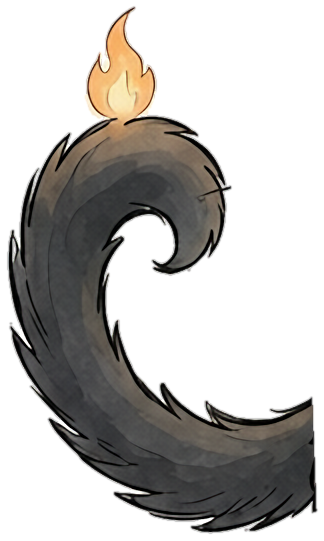
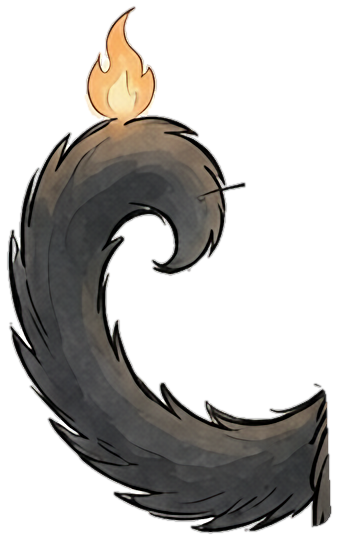
Layer seam and background fill fixes
Owner 02.11: a white line showed between the tail and the body. Both layers were
cut edge to edge along the same line, so both edges were half transparent there
and the paper showed through. anim.underlap extends a part under the layer that
covers it; reel 13 tail recut.

fill_hole: the default grain came from np.roll, which wrapped the frame edge and
pulled lines from the far side into tall holes (an embossed ghost of the cat in
the kitchen fill); noise strength was measured over ink lines too (about 6x too
strong). Grain now comes from tiles of clean paper, never wraps; noise strength
is measured on clean paper only.

Claude-Session: https://claude.ai/code/session_01WL83YHdupNJiw52fjyDVVG

diff --git a/scripts/anim.py b/scripts/anim.py
@@ -398,6 +398,51 @@ def _nfill(img, valid, sig):
     return num / np.maximum(den, 1e-6), den[..., 0]
 
 
+def _clean_paper(img, valid, win=9, thr=6.0):
+    """Чистая бумага: свой фон без линий туши и краёв предметов рядом (локальный разброс яркости мал)."""
+    g = img.mean(2) if img.ndim == 3 else img
+    m = cv2.blur(g, (win, win)); v = cv2.blur(g * g, (win, win)) - m * m
+    calm = np.sqrt(np.clip(v, 0, None)) < thr
+    # не по valid: на ровной бумаге он «в крапинку» (порог по процентилю), и эрозия съедала всё; тушь и дыру — с запасом
+    ink = g < np.median(g[valid]) - 25 if valid.any() else np.zeros_like(calm)
+    near = cv2.dilate((ink | ~(valid | calm)).astype(np.uint8), np.ones((win, win), np.uint8)).astype(bool)
+    return calm & ~near
+
+
+def _grain_tiles(hf, clean, shape, tile=96, seed=11):
+    """Зерно на весь кадр плитками с чистой бумаги: без отражения и без заворота края кадра (np.roll заворачивал
+    его: в заливке кота у холодильника проступали призраки лап с другого края — разбор 02.11)."""
+    H, W = shape
+    def centers(t):                                   # центры плиток целиком на чистой бумаге и целиком в кадре
+        e = cv2.erode(clean.astype(np.uint8), np.ones((t, t), np.uint8), borderType=cv2.BORDER_CONSTANT, borderValue=0)
+        e[:t // 2 + 1] = 0; e[H - t // 2 - 1:] = 0; e[:, :t // 2 + 1] = 0; e[:, W - t // 2 - 1:] = 0
+        return np.nonzero(e)
+    ys, xs = centers(tile)
+    if len(ys) == 0:                                  # чистого места на плитку нет — мелкие плитки
+        tile = 32
+        ys, xs = centers(tile)
+        if len(ys) == 0:
+            return np.zeros_like(hf)
+    rng = np.random.default_rng(seed)
+    out = np.zeros_like(hf)
+    for y in range(0, H, tile):
+        for x in range(0, W, tile):
+            k = int(rng.integers(len(ys)))
+            cy, cx = ys[k] - tile // 2, xs[k] - tile // 2     # эрозия: плитка с центром здесь вся на чистой бумаге
+            h, w = min(tile, H - y), min(tile, W - x)
+            out[y:y + h, x:x + w] = hf[cy:cy + h, cx:cx + w]
+    return out
+
+
+def _shift_no_wrap(hf, d, fallback):
+    """Сдвиг (dy, dx) без заворота края: что вышло за кадр — из запасного зерна."""
+    dy, dx = int(d[0]), int(d[1]); H, W = hf.shape[:2]
+    out = fallback.copy()
+    ys0, ys1 = max(0, dy), min(H, H + dy); xs0, xs1 = max(0, dx), min(W, W + dx)
+    out[ys0:ys1, xs0:xs1] = hf[ys0 - dy:ys1 - dy, xs0 - dx:xs1 - dx]
+    return out
+
+
 def fill_hole(img, hole, valid=None, sigs=(10, 25, 60), grain_from=None, feather=5):
     """Фон на месте вырезанного предмета: гладкое продолжение соседнего фона (нормированная свёртка по `valid` —
     только свой фон, без контуров и соседних предметов) + зерно рисунка с чистого места `grain_from` (dy, dx:
@@ -415,15 +460,17 @@ def fill_hole(img, hole, valid=None, sigs=(10, 25, 60), grain_from=None, feather
     for s_ in reversed(sigs[:-1]):
         f, d = _nfill(img, valid, s_); out = np.where((d > 0.15)[..., None], f, out)
     hf = img - cv2.GaussianBlur(img, (0, 0), 2.5)
-    if grain_from == "noise":                         # зерно шумом той же силы, что у чистого фона рядом
-        sd = float(hf[valid].std()) if valid.any() else 2.0
+    clean = _clean_paper(img, valid) & ~cv2.dilate(hole.astype(np.uint8), np.ones((9, 9), np.uint8)).astype(bool)
+    if grain_from == "noise":                         # зерно шумом той же силы, что у чистой бумаги рядом
+        # сила — по чистой бумаге (без линий туши): по всему фону вместе с линиями выходило в 6 раз сильнее (02.11)
+        sd = float(np.median(np.abs(hf[clean])) * 1.4826) if clean.sum() > 500 else 2.0
         rng = np.random.default_rng(7)
         nz = cv2.GaussianBlur(rng.normal(0, 1, img.shape[:2]).astype(np.float32), (0, 0), 0.8)
         out = out + (nz / (nz.std() + 1e-6) * sd)[..., None]
-    else:                                             # зерно с чистого места: (dy, dx) — строка y берёт y - dy
-        if grain_from is None:
-            grain_from = (int(cv2.boundingRect(hole.astype(np.uint8))[3] * 1.3), 0)
-        out = out + np.roll(hf, grain_from, axis=(0, 1))
+    elif grain_from is None:                          # зерно — плитками с чистой бумаги, со случайным сдвигом
+        out = out + _grain_tiles(hf, clean, img.shape[:2])
+    else:                                             # зерно с указанного места: (dy, dx) — строка y берёт y - dy
+        out = out + _shift_no_wrap(hf, grain_from, _grain_tiles(hf, clean, img.shape[:2]))
     a = cv2.GaussianBlur(hole.astype(np.float32), (0, 0), feather)[..., None] if feather else hole[..., None].astype(np.float32)
     return img * (1 - a) + out * a
 
@@ -499,6 +546,19 @@ def keep_attached(mask, reach=PART_REACH):
     big = (lab == 1 + int(np.argmax(st[1:, cv2.CC_STAT_AREA]))).astype(np.uint8)
     near = cv2.dilate(big, cv2.getStructuringElement(cv2.MORPH_ELLIPSE, (2 * reach + 1, 2 * reach + 1)))
     return np.isin(lab, np.unique(lab[(near > 0) & (m > 0)])).astype(np.uint8) & m
+
+
+PART_UNDERLAP = 14          # px: часть заходит под соседний слой — шов разреза не просвечивает
+
+
+def underlap(part, cover, full, width=PART_UNDERLAP):
+    """Продлить часть (хвост, лапу, ухо) под слой, который лежит поверх неё (тело), на width px вдоль их общего края.
+    Разрез встык даёт обоим слоям полупрозрачный край по одной линии, и сквозь него светится бумага — белая полоска
+    между хвостом и телом (владелец 02.11, хук рилса 13). full — маска персонажа целиком: продление берёт только его
+    пиксели. Возвращает новую маску части; слой cover не меняется (он сверху и закрывает продление)."""
+    part = (np.asarray(part) > 0).astype(np.uint8)
+    grow = cv2.dilate(part, cv2.getStructuringElement(cv2.MORPH_ELLIPSE, (2 * width + 1, 2 * width + 1)))
+    return (part | (grow & (np.asarray(cover) > 0) & (np.asarray(full) > 0))).astype(np.uint8)
 
 
 def detached_share(alpha, thr=0.1, reach=PART_REACH):

diff --git a/tests/test_anim.py b/tests/test_anim.py
@@ -190,3 +190,35 @@ def test_drop_scene_lines_removes_door_frame_through_whiskers():
     assert out[350, 420] == 0                                      # рамка ниже уса — не кот
     assert out[270, 440] == 1 or out[269, 440] == 1                # ус остался
     assert out[300, 250] == 1                                      # тело не тронуто
+
+
+def test_underlap_hides_the_cut_seam_between_part_and_body():
+    # владелец 02.11: белая полоска между хвостом и телом — разрез встык, бумага светится сквозь оба края
+    full = np.zeros((40, 80), np.uint8); full[10:30, 5:75] = 1
+    tail = full.copy(); tail[:, 40:] = 0
+    body = full.copy(); body[:, :40] = 0
+    out = anim.underlap(tail, body, full, width=6)
+    assert out[20, 44] == 1 and out[20, 50] == 0                   # хвост зашёл под тело на 6 px, дальше — нет
+    assert out[5, 44] == 0                                         # только пиксели персонажа
+
+
+def test_fill_hole_grain_never_wraps_the_frame_edge():
+    # разбор 02.11: np.roll заворачивал край кадра — в заливке высокой дыры проступали линии с другого края
+    rng = np.random.default_rng(0)
+    img = np.full((300, 300, 3), 240, np.float32) + rng.normal(0, 1.5, (300, 300, 1)).astype(np.float32)
+    img[280:284, :] = 30                                           # линия пола у нижнего края
+    hole = np.zeros((300, 300), bool); hole[20:200, 100:200] = True   # высокая дыра у верхнего края
+    out = anim.fill_hole(img, hole, feather=0)
+    assert out[20:200, 100:200].min() > 200                        # линии пола в дыре нет
+    sd = float(out[60:160, 120:180].std())
+    assert 0.5 < sd < 4.0                                          # зерно есть, но не грязь
+
+
+def test_fill_hole_noise_strength_from_clean_paper_only():
+    rng = np.random.default_rng(1)
+    img = np.full((200, 200, 3), 240, np.float32) + rng.normal(0, 1.0, (200, 200, 1)).astype(np.float32)
+    for x in range(10, 200, 25):
+        img[:, x:x + 3] = 30                                       # линии туши по фону
+    hole = np.zeros((200, 200), bool); hole[80:120, 80:120] = True
+    out = anim.fill_hole(img, hole, grain_from="noise", feather=0)
+    assert float(out[85:115, 95:105].std()) < 3.0                  # сила шума — как у бумаги, не как у линий

diff --git a/videos/13_dver/reel/anim/kit_doorway.py b/videos/13_dver/reel/anim/kit_doorway.py
@@ -106,6 +106,7 @@ def main():
     tail = cat & tail_reg; body = cat & ~tail_reg.astype(bool)
     # усы щеки проходят через просвет завитка хвоста: оторванные от хвоста штрихи — телу (владелец 02.11, 0:00.86)
     tail, body = anim.split_part(tail, body)
+    tail = anim.underlap(tail, body, cat)                       # хвост заходит под тело: без белого шва у основания
     cloud = np.zeros_like(cat); bub = np.zeros_like(cat)
     for m in anim.ink_objects(A, box=CLOUD_BOX, min_area=20000): cloud |= m
     for m in anim.ink_objects(A, box=BUB_BOX, min_area=300): bub |= m
